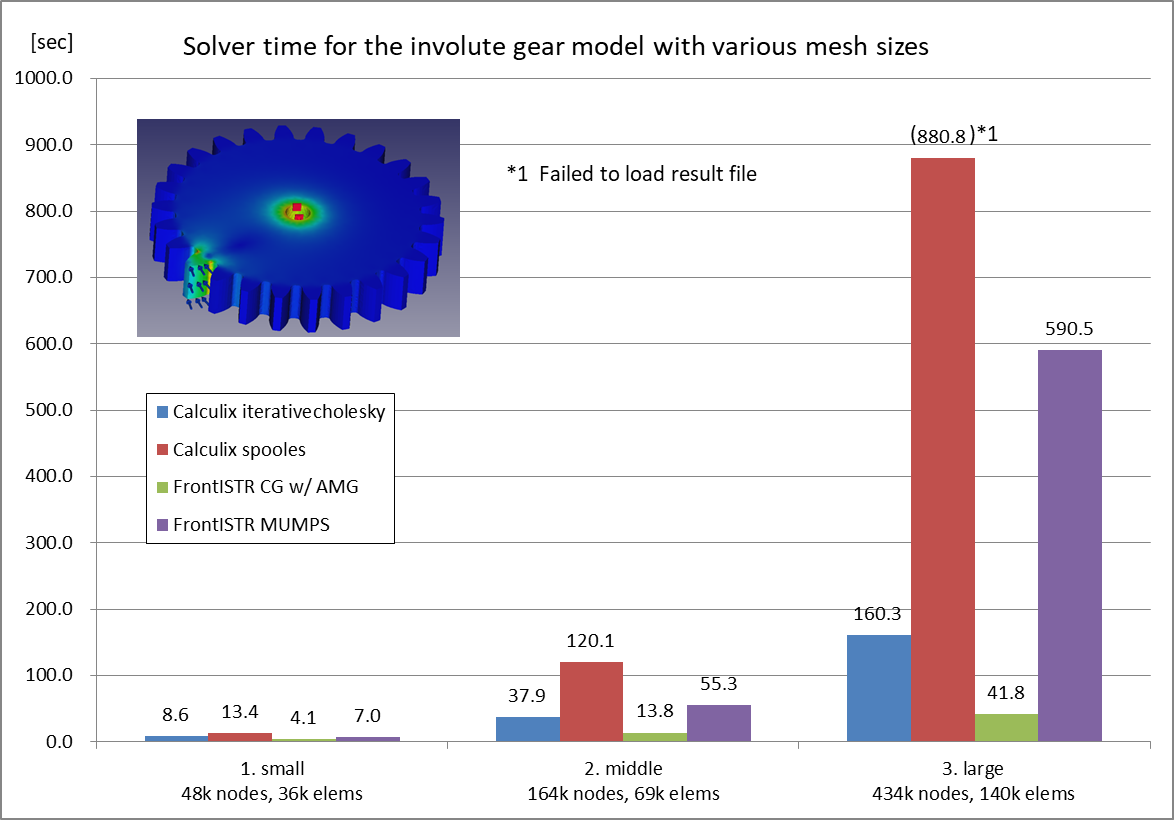
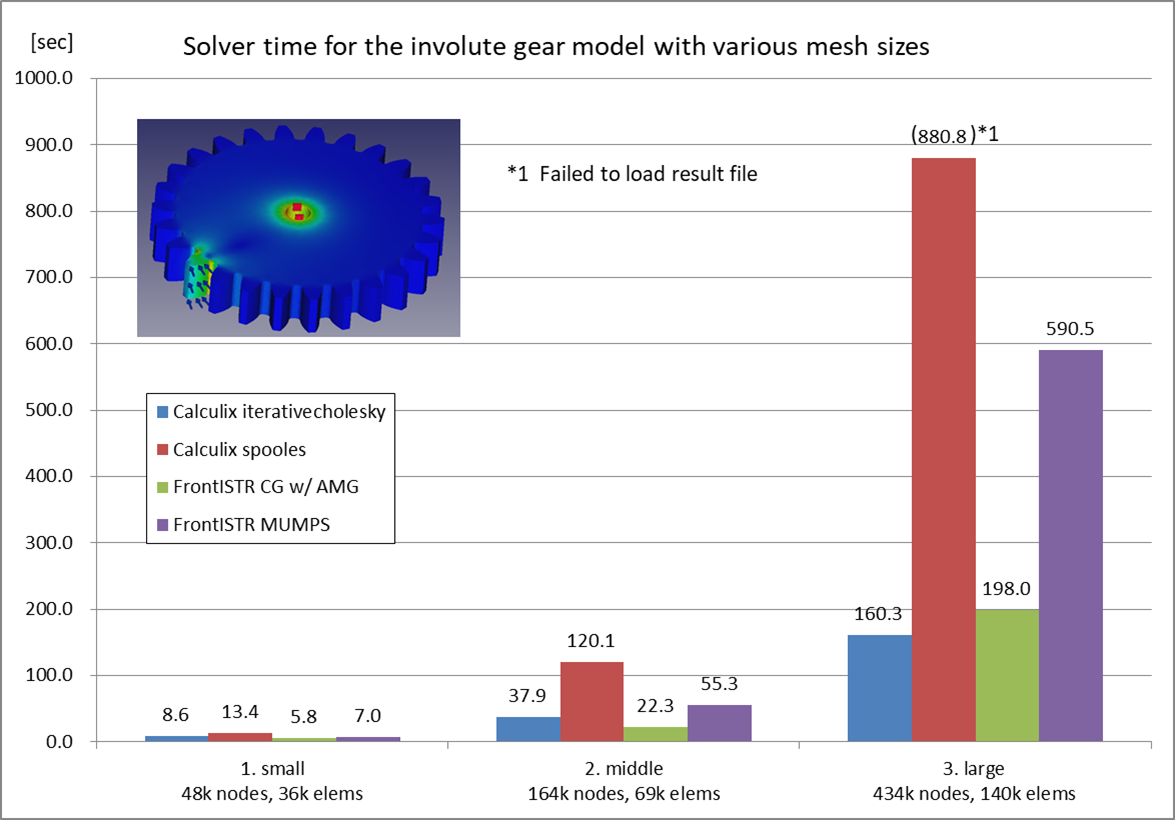
Update README.md and benchmark results

diff --git a/sample/benchmarks/03_bikeframe/README.md b/sample/benchmarks/03_bikeframe/README.md
@@ -9,9 +9,9 @@
   - Analysis type: Static linear
 - Parameters:
   - Mesh settings: Netgen, Fineness=Moderate
-     1. Small: Max. Size=100.00, First order, 30,462 nodes, 46,394 elements
+     1. Small: Max. Size=100.00, First order, 30,367 nodes, 46,164 elements
      2. Middle: Max. Size=10.0, Second order, 187,073 nodes, 46,206 elements
-     3. Large: Max. Size=4.30, Second order, 311,150 nodes, 177,213 elements
+     3. Large: Max. Size=4.30, Second order, 364,807 nodes, 76,900 elements
   - Matrix solver settings
     - CalculiX: iterativecholesky(iterative), spooles(direct)
     - FrontISTR: CG w/ AMG preconditioner(iterative), MUMPS(direct)
@@ -20,8 +20,8 @@
   - CPU: Intel Core i7-6700 @3.40GHz 4cores x 1CPU
   - Memory: 16GB
   - FreeCAD 0.19.1 a88db11
-  - FrontISTR v5.2 380f1690
-  - FEM\_FrontISTR 8f57d2f3
+  - FrontISTR v5.2 1a5263e1
+  - FEM\_FrontISTR 96abb945
   - Paralell settings
     - Calculix: `OMP_NUM_THREADS=4`
       - Note that Iterativecholesky solver runs sequentially. The other processes are executed in parallel.
@@ -45,20 +45,20 @@ The performance(Solver time) of CalculiX and FrontISTR for this model is as foll
 
 The detailed result table including write Input time, result loading time, Mises stress, and iterative solver information is as follows:
 
-| model     | Solver    | Matrix Solver     | Tw (sec) | Ts (sec) | Tt (sec) | Tr (sec) | Max Mises(MPa) | iter | residual | threshold |
-| --------- | --------- | ----------------- | -------- | -------- | -------- | -------- | -------------- | ---- | -------- | --------- |
-| 1. small  | Calculix  | iterativecholesky | 1.2      | 4.2      | 10.4     | 6.2      | 622.82&dagger;     | 109  | 6.83E-01 | 6.89E-01  |
-|           | Calculix  | spooles           | 1.2      | 3.7      | 9.9      | 6.2      | 375.31         | N/A  | N/A      | N/A       |
-|           | FrontISTR | CG w/ AMG         | 2.2      | **2.6**  | 11.3     | 8.7      | 375.37         | 58   | 9.79E-07 | 1.00E-06  |
-|           | FrontISTR | MUMPS             | 2.2      | 2.7      | 11.2     | 8.5      | 375.31         | N/A  | 2.52E-15 | N/A       |
-| 2. middle | Calculix  | iterativecholesky | 4.0      | 61.4     | 82.3     | 20.9     | 1759.03&dagger;    | 253  | 3.35E-01 | 3.42E-01  |
-|           | Calculix  | spooles           | 3.8      | 30.2     | 51.3     | 21.1     | 474.58         | N/A  | N/A      | N/A       |
-|           | FrontISTR | CG w/ AMG         | 6.7      | 26.7     | 41.9     | 15.2     | 474.68         | 112  | 9.19E-07 | 1.00E-06  |
-|           | FrontISTR | MUMPS             | 6.8      | **18.4** | 33.9     | 15.5     | 474.58         | N/A  | 7.51E-15 | N/A       |
-| 3. large  | Calculix  | iterativecholesky | 6.7      | 165.8    | 201.4    | 35.6     | 2397.54&dagger;    | 463  | 2.54E-01 | 2.65E-01  |
-|           | Calculix  | spooles           | 6.7      | 64.0     | 98.7     | 34.7     | 520.71         | N/A  | N/A      | N/A       |
-|           | FrontISTR | CG w/ AMG         | 11.5     | 52.9     | 70.3     | 17.4     | 520.79         | 120  | 9.18E-07 | 1.00E-06  |
-|           | FrontISTR | MUMPS             | 11.6     | **35.1** | 51.9     | 16.8     | 520.71         | N/A  | 1.03E-14 | N/A       |
+| model     | Solver    | Matrix Solver     | Tw (sec) | Ts (sec) | Tt (sec) | Tr (sec) | Max Mises(MPa)  | iter | residual | threshold |
+| --------- | --------- | ----------------- | -------- | -------- | -------- | -------- | --------------- | ---- | -------- | --------- |
+| 1. small  | Calculix  | iterativecholesky | 1.2      | 4.3      | 10.4     | 6.1      | 622.82&dagger;  | 109  | 6.83E-01 | 6.89E-01  |
+|           | Calculix  | spooles           | 1.2      | 3.6      | 9.7      | 6.1      | 375.31          | N/A  | N/A      | N/A       |
+|           | FrontISTR | CG w/ AMG         | 2.2      | **2.4**  | 11.3     | 8.9      | 375.37          | 11   | 4.59E-07 | 1.00E-06  |
+|           | FrontISTR | MUMPS             | 2.2      | 2.6      | 10.7     | 8.1      | 375.31          | N/A  | 2.52E-15 | N/A       |
+| 2. middle | Calculix  | iterativecholesky | 4.0      | 61.4     | 82.3     | 20.9     | 1759.03&dagger; | 253  | 3.35E-01 | 3.42E-01  |
+|           | Calculix  | spooles           | 3.8      | 30.2     | 51.3     | 21.1     | 474.58          | N/A  | N/A      | N/A       |
+|           | FrontISTR | CG w/ AMG         | 6.7      | **14.9** | 29.8     | 14.9     | 474.68          | 22   | 9.68E-07 | 1.00E-06  |
+|           | FrontISTR | MUMPS             | 6.8      | 18.4     | 33.9     | 15.5     | 474.58          | N/A  | 7.51E-15 | N/A       |
+| 3. large  | Calculix  | iterativecholesky | 8.2      | 763.3    | 806.4    | 43.1     | 1171.69&dagger; | 5208 | 7.41E-03 | 7.52E-03  |
+|           | Calculix  | spooles           | 7.9      | 82.5     | 122.1    | 39.6     | 523.58          | N/A  | N/A      | N/A       |
+|           | FrontISTR | CG w/ AMG         | 13.6     | **31.4** | 50.7     | 19.3     | 523.57          | 22   | 7.36E-07 | 1.00E-06  |
+|           | FrontISTR | MUMPS             | 13.8     | 53.0     | 72.4     | 19.4     | 523.58          | N/A  | 9.06E-15 | N/A       |
 
-\*Problem on frd file import. No nodes found in frd file.
 &dagger;Iterativecholesky solver converged but the solution was inacculate. 
+

diff --git a/sample/benchmarks/01_gear/README.md b/sample/benchmarks/01_gear/README.md
@@ -21,8 +21,8 @@
   - CPU: Intel Core i7-6700 @3.40GHz 4cores x 1CPU
   - Memory: 16GB
   - FreeCAD 0.19.1 a88db11
-  - FrontISTR v5.2 380f1690
-  - FEM\_FrontISTR 8f57d2f3
+  - FrontISTR v5.2 1a5263e1
+  - FEM\_FrontISTR 96abb945
   - Paralell settings
     - Calculix: `OMP_NUM_THREADS=4`
       - Note that Iterativecholesky solver runs sequentially. The other processes are executed in parallel.
@@ -46,19 +46,19 @@ The performance(Solver time) of CalculiX and FrontISTR for the involute gear mod
 
 The detailed result table including write Input time, result loading time, Mises stress, and iterative solver information is as follows:
 
-| model     | Solver    | Matrix Solver     | Tw (sec) | Ts (sec) | Tt (sec) | Tr (sec) | Max Mises(MPa) | iter | residual | threshold |
-| --------- | --------- | ----------------- | -------- | -------- | -------- | -------- | -------------- | ---- | -------- | --------- |
-| 1. small  | CalculiX  | iterativecholesky | 4.8      | 8.6      | 18.7     | 10.1     | 334.16         | 151  | 2.02E-04 | 2.24E-04  |
-|           | CalculiX  | spooles           | 4.3      | 13.4     | 23.1     | 9.7      | 334.16         | N/A  | N/A      | N/A       |
-|           | FrontISTR | CG w/ AMG         | 6.1      | **4.1**  | 12.4     | 8.3      | 334.16         | 30   | 6.92E-07 | 1.00E-06  |
-|           | FrontISTR | MUMPS             | 6.1      | 7.0      | 15.3     | 8.3      | 334.16         | N/A  | 2.25E-12 | N/A       |
-| 2. middle | CalculiX  | iterativecholesky | 18.4     | 37.9     | 75.8     | 37.9     | 397.31         | 237  | 1.13E-04 | 1.24E-04  |
-|           | CalculiX  | spooles           | 19.1     | 120.1    | 151.2    | 31.1     | 397.37         | N/A  | N/A      | N/A       |
-|           | FrontISTR | CG w/ AMG         | 25.8     | **13.8** | 32.8     | 19.0     | 397.37         | 24   | 9.79E-07 | 1.00E-06  |
-|           | FrontISTR | MUMPS             | 25.2     | 55.3     | 77.2     | 21.9     | 397.37         | N/A  | 4.53E-12 | N/A       |
-| 3. large  | CalculiX  | iterativecholesky | 55.5     | 160.3    | 265.7    | 105.4    | 442.03         | 544  | 6.19E-05 | 6.50E-05  |
-|           | CalculiX  | spooles           | 50.8     | 880.8    | N/A*     | N/A*     | N/A*           | N/A  | N/A      | N/A       |
-|           | FrontISTR | CG w/ AMG         | 72.4     | **41.8** | 93.2     | 51.4     | 442.02         | 29   | 7.76E-07 | 1.00E-06  |
-|           | FrontISTR | MUMPS             | 74.4     | 590.5    | 651.5    | 61.0     | 442.02         | N/A  | 9.37E-12 | N/A       |
+| model     | Solver    | Matrix Solver     | Tw (sec) | Ts (sec)  | Tt (sec) | Tr (sec) | Max Mises(MPa) | iter | residual | threshold |
+| --------- | --------- | ----------------- | -------- | --------- | -------- | -------- | -------------- | ---- | -------- | --------- |
+| 1. small  | Calculix  | iterativecholesky | 4.8      | 8.6       | 18.7     | 10.1     | 334.16         | 151  | 2.02E-04 | 2.24E-04  |
+|           | Calculix  | spooles           | 4.3      | 13.4      | 23.1     | 9.7      | 334.16         | N/A  | N/A      | N/A       |
+|           | FrontISTR | CG w/ AMG         | 6.9      | **5.8**   | 14.3     | 8.5      | 334.16         | 11   | 6.64E-07 | 1.00E-06  |
+|           | FrontISTR | MUMPS             | 6.1      | 7.0       | 15.3     | 8.3      | 334.16         | N/A  | 2.25E-12 | N/A       |
+| 2. middle | Calculix  | iterativecholesky | 18.4     | 37.9      | 75.8     | 37.9     | 397.31         | 237  | 1.13E-04 | 1.24E-04  |
+|           | Calculix  | spooles           | 19.1     | 120.1     | 151.2    | 31.1     | 397.37         | N/A  | N/A      | N/A       |
+|           | FrontISTR | CG w/ AMG         | 26.7     | **22.3**  | 40.5     | 18.2     | 397.37         | 11   | 6.88E-07 | 1.00E-06  |
+|           | FrontISTR | MUMPS             | 25.2     | 55.3      | 77.2     | 21.9     | 397.37         | N/A  | 4.53E-12 | N/A       |
+| 3. large  | Calculix  | iterativecholesky | 55.5     | **160.3** | 265.7    | 105.4    | 442.03         | 544  | 6.19E-05 | 6.50E-05  |
+|           | Calculix  | spooles           | 50.8     | 880.8     | N/A*     | N/A*     | N/A*           | N/A  | N/A      | N/A       |
+|           | FrontISTR | CG w/ AMG         | 79.4     | 198.0     | 256.3    | 58.3     | 442.02         | 12   | 3.06E-07 | 1.00E-06  |
+|           | FrontISTR | MUMPS             | 74.4     | 590.5     | 651.5    | 61.0     | 442.02         | N/A  | 9.37E-12 | N/A       |
 
 \*Problem on frd file import. No nodes found in frd file.

diff --git a/sample/benchmarks/04_spring/README.md b/sample/benchmarks/04_spring/README.md
@@ -12,7 +12,7 @@
   - Mesh settings: Gmsh, Second order, Second Order Linear=true
     1. Small: Max element size=3.00, 49,713 nodes, 24,813 elements
     2. Middle: Max element size=2.00, 137,283 nodes, 75,058 elements
-    3. Large: Max element size=1.50, 402,670 nodes, 242,045 elements
+    3. Large: Max element size=1.30, 402,670 nodes, 242,045 elements
   - Matrix solver settings
     - CalculiX: iterativecholesky(iterative), spooles(direct)
     - FrontISTR: CG w/ AMG preconditioner(iterative), MUMPS(direct)
@@ -22,8 +22,8 @@
   - CPU: Intel Core i7-6700 @3.40GHz 4cores x 1CPU
   - Memory: 16GB
   - FreeCAD 0.19.1 a88db11
-  - FrontISTR v5.2 380f1690
-  - FEM\_FrontISTR 8f57d2f3
+  - FrontISTR v5.2 1a5263e1
+  - FEM\_FrontISTR 96abb945
   - Paralell settings
     - Calculix: `OMP_NUM_THREADS=4`
       - Note that Iterativecholesky solver runs sequentially. The other processes are executed in parallel.
@@ -51,16 +51,16 @@ The detailed result table including write Input time, result loading time, Mises
 | --------- | --------- | ----------------- | -------- | -------- | -------- | -------- | --------------- | ----- | -------- | --------- |
 | 1. small  | Calculix  | iterativecholesky | 1.1      | 786.7    | 805.4    | 18.7     | 153.47          | 20592 | 2.72E-06 | 2.74E-06  |
 |           | Calculix  | spooles           | 1.2      | 6.1      | 11.4     | 5.3      | 152.59          | N/A   | N/A      | N/A       |
-|           | FrontISTR | CG w/ AMG         | 2.0      | 18.0     | 21.4     | 3.4      | 153.52          | 489   | 9.39E-04 | 1.00E-03  |
-|           | FrontISTR | MUMPS             | 1.8      | **3.7**  | 7.1      | 3.4      | 153.52          | N/A   | 5.96E-08 | N/A       |
+|           | FrontISTR | CG w/ AMG         | 2.0      | 3.8      | 7.1      | 3.3      | 153.52          | 27    | 8.30E-07 | 1.00E-06  |
+|           | FrontISTR | MUMPS             | 1.8      | 3.7      | 7.1      | 3.4      | 153.52          | N/A   | 5.96E-08 | N/A       |
 | 2. middle | Calculix  | iterativecholesky | 3.8      | 4022.5   | 4051.3   | 28.8     | 172.68          | 37560 | 1.67E-06 | 2.74E-06  |
 |           | Calculix  | spooles           | 3.5      | 19.7     | 33.8     | 14.1     | 1112.46&dagger; | N/A   | N/A      | N/A       |
-|           | FrontISTR | CG w/ AMG         | 5.7      | 58.4     | 68.8     | 10.4     | 172.78          | 496   | 9.60E-04 | 1.00E-03  |
-|           | FrontISTR | MUMPS             | 5.9      | **12.6** | 23.0     | 10.4     | 172.78          | N/A   | 1.06E-07 | N/A       |
+|           | FrontISTR | CG w/ AMG         | 5.7      | 10.5     | 20.6     | 10.1     | 172.78          | 27    | 6.95E-07 | 1.00E-06  |
+|           | FrontISTR | MUMPS             | 5.9      | 12.6     | 23.0     | 10.4     | 172.78          | N/A   | 1.06E-07 | N/A       |
 | 3. large  | Calculix  | iterativecholesky | 11.1     | 18029.2  | 18091.4  | 62.2     | 213.21          | 56535 | 9.87E-07 | 1.06E-06  |
-|           | Calculix  | spooles           | 11.8     | 75.5     | N/A\*    | N/A\*    | N/A\*           | N/A  | N/A      | N/A       |
-|           | FrontISTR | CG w/ AMG         | 18.6     | 168.1    | 189.2    | 21.1     | 213.24          | 395   | 9.41E-04 | 1.00E-03  |
-|           | FrontISTR | MUMPS             | 18.9     | **48.3** | 69.7     | 21.4     | 213.24          | N/A   | 2.10E-07 | N/A       |
+|           | Calculix  | spooles           | 11.8     | 75.5     | N/A\*    | N/A\*    | N/A\*           | N/A   | N/A      | N/A       |
+|           | FrontISTR | CG w/ AMG         | 19.3     | 35.9     | 57.1     | 21.2     | 213.24          | 26    | 4.91E-07 | 1.00E-06  |
+|           | FrontISTR | MUMPS             | 18.9     | 48.3     | 69.7     | 21.4     | 213.24          | N/A   | 2.10E-07 | N/A       |
 
 \*Problem on frd file import. No nodes found in frd file.
 &dagger;Spooles solver finished successfully but the solution was inaccurate. 

diff --git a/sample/benchmarks/02_can/README.md b/sample/benchmarks/02_can/README.md
@@ -20,8 +20,8 @@
   - CPU: Intel Core i7-6700 @3.40GHz 4cores x 1CPU
   - Memory: 16GB
   - FreeCAD 0.19.1 a88db11
-  - FrontISTR v5.2 380f1690
-  - FEM\_FrontISTR 8f57d2f3
+  - FrontISTR v5.2 1a5263e1
+  - FEM\_FrontISTR 96abb945
   - Paralell settings
     - Calculix: `OMP_NUM_THREADS=4`
       - Note that Iterativecholesky solver runs sequentially. The other processes are executed in parallel.
@@ -49,16 +49,17 @@ The detailed result table including write Input time, result loading time, Mises
 | --------- | --------- | ----------------- | -------- | -------- | -------- | -------- | -------------- | ---- | -------- | --------- |
 | 1. small  | Calculix  | iterativecholesky | 8.5      | 30.2     | 35.0     | 4.8      | 70.14          | 1063 | 3.17E-02 | 3.67E-02  |
 |           | Calculix  | spooles           | 8.3      | 6.3      | 11.1     | 4.8      | 70.14          | N/A  | N/A      | N/A       |
-|           | FrontISTR | CG w/ AMG         | 9.3      | **4.4**  | 7.3      | 2.9      | 70.14          | 86   | 8.39E-07 | 1.00E-06  |
-|           | FrontISTR | MUMPS             | 9.5      | **4.4**  | 7.3      | 2.9      | 70.14          | N/A  | 9.95E-12 | N/A       |
+|           | FrontISTR | CG w/ AMG         | 9.3      | **4.2**  | 7.7      | 3.5      | 70.14          | 62   | 8.78E-07 | 1.00E-06  |
+|           | FrontISTR | MUMPS             | 9.5      | 4.4      | 7.3      | 2.9      | 70.14          | N/A  | 9.95E-12 | N/A       |
 | 2. middle | Calculix  | iterativecholesky | 33.4     | 244.9    | 269.5    | 24.6     | 93.81          | 1484 | 1.07E-05 | 1.26E-05  |
 |           | Calculix  | spooles           | 34.5     | 65.1     | 88.0     | 22.9     | 93.81          | N/A  | N/A      | N/A       |
-|           | FrontISTR | CG w/ AMG         | 37.0     | **29.1** | 40.5     | 11.4     | 93.81          | 102  | 8.21E-07 | 1.00E-06  |
+|           | FrontISTR | CG w/ AMG         | 36.4     | **21.7** | 33.0     | 11.3     | 93.81          | 35   | 9.37E-07 | 1.00E-06  |
 |           | FrontISTR | MUMPS             | 38.1     | 30.8     | 42.3     | 11.5     | 93.81          | N/A  | 1.90E-11 | N/A       |
 | 3. large  | Calculix  | iterativecholesky | 61.0     | 646.3    | 699.8    | 53.5     | 104.25         | 1575 | 1.29E-05 | 1.08E-05  |
-|           | Calculix  | spooles           | 58.0     | 306.4    | N/A*     | N/A*     | N/A*           | N/A  | N/A      | N/A       |
-|           | FrontISTR | CG w/ AMG         | 71.5     | **68.8** | 93.9     | 25.1     | 104.25         | 89   | 9.61E-07 | 1.00E-06  |
+|           | Calculix  | spooles           | 58.0     | 306.4    | N/A\*    | N/A\*    | N/A\*          | N/A  | N/A      | N/A       |
+|           | FrontISTR | CG w/ AMG         | 65.5     | **56.5** | 103.8    | 47.3     | 104.25         | 36   | 8.54E-07 | 1.00E-06  |
 |           | FrontISTR | MUMPS             | 66.3     | 185.5    | 214.6    | 29.1     | 104.25         | N/A  | 2.75E-11 | N/A       |
 
 
 \*Problem on frd file import. No nodes found in frd file.
+

diff --git a/README.md b/README.md
@@ -2,8 +2,8 @@
 
 FEM_FrontISTR is a FreeCAD addon that enables FrontISTR, an open-source large-scale parallel FEM program for nonlinear structural analysis. See [FrontISTR Home (Japanese website)](https://www.frontistr.com/) for the detail of FrontISTR solver.
 
-![Result](sample/showcase/0a_bikeframe.png)
-Fig: [Motorcycle frame](https://grabcad.com/library/motorcycle-frame-6), 644,415 nodes and 398,851 elements, calculation time is 172sec (8cores) with Intel Core i7-6700 @3.40GHz x 1CPU, 16.0GB Mem. Check [sample/showcase](./sample/showcase/README.md) for more samples.
+![Result](sample/benchmarks/03_bikeframe/result_mises_large.png)
+Fig: [Motorcycle frame](https://grabcad.com/library/motorcycle-frame-6), 364,807 nodes and 76,900 elements, calculation time is 31.4sec ( 82.5sec by calculix ) with Intel Core i7-6700 @3.40GHz x 4cores x 1CPU, 16.0GB Mem. Check [sample/benchmarks](./sample/benchmarks/) and [sample/showcase](./sample/showcase/README.md) for more samples.
 
 
 ## Features
@@ -102,6 +102,10 @@ Under preparation.
 
   - English: https://manual.frontistr.com/en/
   - 日本語: https://manual.frontistr.com/ja/
+
+### FreeCAD wiki
+
+  - https://wiki.freecadweb.org/FEM_FrontISTR_Workbench
 
 ## Support
 
